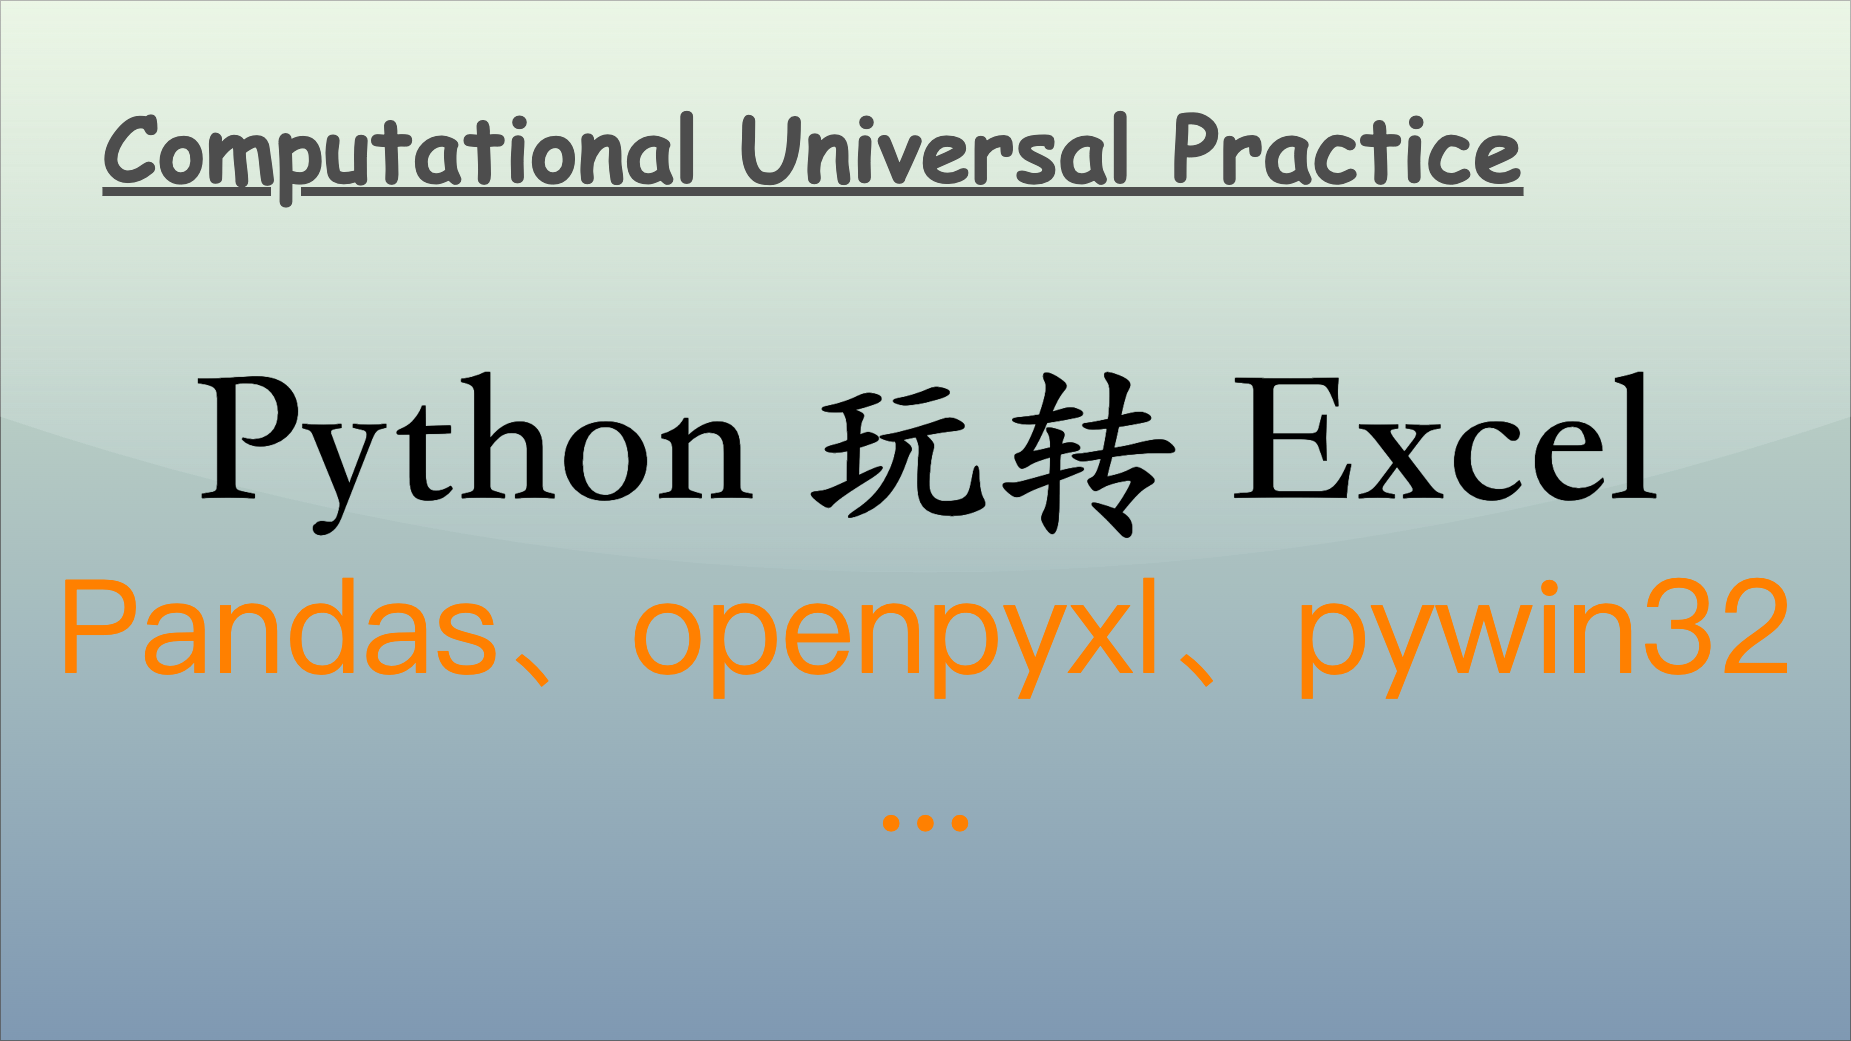
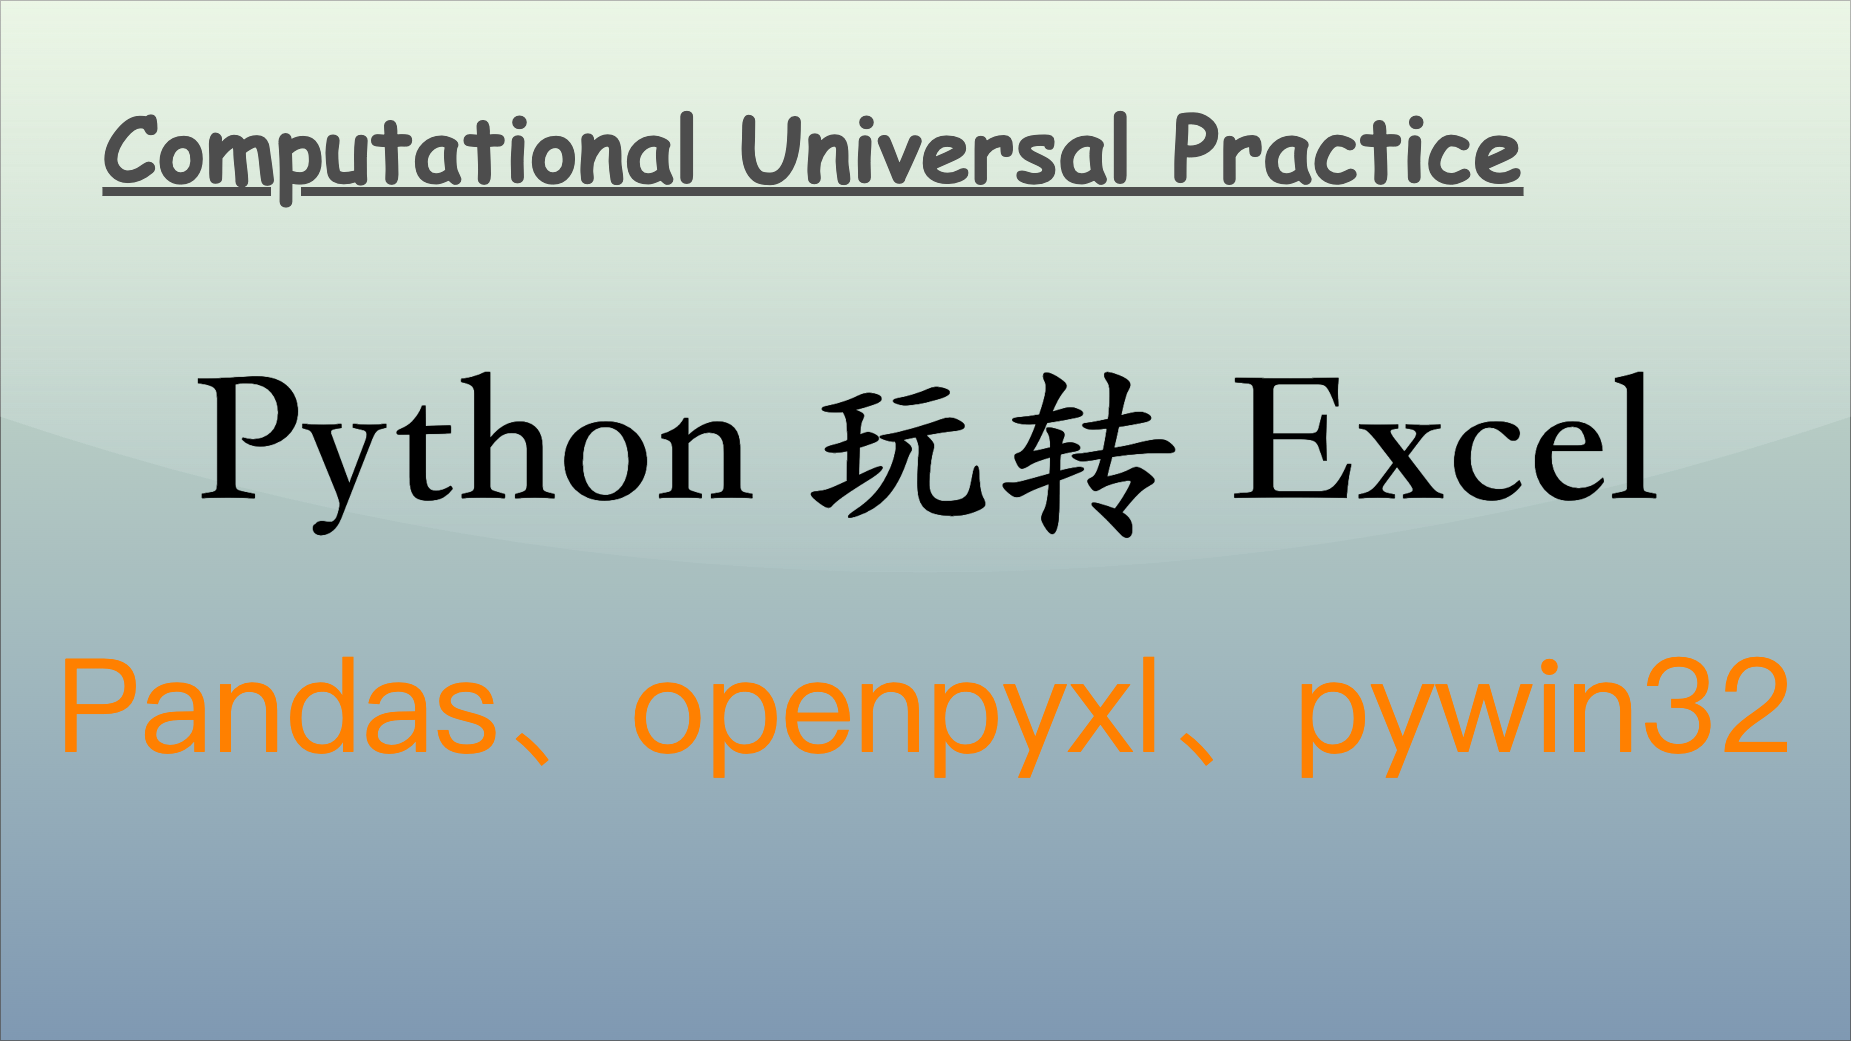
update images

Changed region(s): [[0.3387, 0.5533, 0.9854, 0.7378], [0.0308, 0.5533, 0.3079, 0.7378], [0.4619, 0.7685, 0.5235, 0.7992]]

diff --git a/articles/practice/working/27-Python 玩转 Excel.md b/articles/practice/working/27-Python 玩转 Excel.md
@@ -19,9 +19,9 @@ tags:
 
 ## 引言
 
-在数据处理和分析中，Excel 是一种常用的工具，而 Python 也是一种强大的编程语言。结合 Python 的数据处理库，可以方便地操作 Excel 文件，进行数据读取、处理、分析和报告生成等工作。本文将介绍如何使用 Python 操作 Excel 文件，包括读取、写入、数据处理、样式设置、数据验证、公式支持和图表创建等方面的内容。
+`Excel` 是在数据处理和分析中一种最常用的工具，而 Python 是一种强大的编程语言。结合 Python 的数据处理库，可以方便地操作 Excel 文件，进行数据读取、处理、分析和报告生成等工作。本文将介绍如何使用 Python 操作 Excel 文件，包括读取、写入、数据处理、样式设置、数据验证、公式支持和图表创建等方面的内容。
 
-![Python-Excel](assets/Python-Excel.png)
+![Cover](<assets/cover/Python 玩转 Excel.drawio.png>)
 
 在 Python 中，有多种库和方法可以操作 Excel 文件。下面我们捡一些常用的库及其基本操作进行介绍。
 

diff --git a/articles/practice/working/16-Python 优雅编程：会报恩的代码（一）.md b/articles/practice/working/16-Python 优雅编程：会报恩的代码（一）.md
@@ -21,7 +21,7 @@ tags:
 
 在 Python 编程中，有一些技巧和最佳实践可以帮助你编写更优雅、更高效的代码。本文将介绍 Python 中的 `yield` 和 `yield from` 用法，以及处理 `offset-naive` 和 `offset-aware` 的 `datetime` 对象时的最佳实践。此外，我们还将探讨如何处理 `requests` 异常，以提高代码的鲁棒性和用户体验。
 
-![Cover](<assets/Python 优雅编程：会报恩的代码.png>)
+![Cover](<assets/cover/Python 优雅编程：会报恩的代码.drawio.png>)
 
 ## yield 与 yield from
 

diff --git a/articles/practice/working/18-Python 优雅编程：会报恩的代码（二）.md b/articles/practice/working/18-Python 优雅编程：会报恩的代码（二）.md
@@ -22,7 +22,7 @@ tags:
 
 在 Python 编程中，有一些常用技巧和最佳实践可以帮助你编写更优雅、更高效的代码。本文将介绍的是 Python 中 `defaultdict` 的分组作用、`random` 在随机选取中的实践、使用 `networkx` 作图时，如何令图中的点一直保持相同的位置（不需要自行指定点的位置）、`logging.basicConfig` 的参数含义、`SQLAlchemy` 执行任意 SQL 等。
 
-![Cover](<assets/Python 优雅编程：会报恩的代码.png>)
+![Cover](<assets/cover/Python 优雅编程：会报恩的代码.drawio.png>)
 
 ## defaultdict
 

diff --git a/articles/practice/working/25-Python 优雅编程：会报恩的代码（三）.md b/articles/practice/working/25-Python 优雅编程：会报恩的代码（三）.md
@@ -20,7 +20,7 @@ tags:
 
 在 Python 编程中，有一些常用技巧和最佳实践可以帮助你编写更优雅、更高效的代码。本文将介绍的是 Python 中使用 `Scikit-Learn` 下载 `MNIST` 数据，并训练模型，序列化模型、`MLPClassifier` 模型的参数查看、MLPClassifier 的`激活函数`及其实现、从 `pandas.core.frame.DataFrame` 中获取数据等。
 
-![Cover](<assets/Python 优雅编程：会报恩的代码.png>)
+![Cover](<assets/cover/Python 优雅编程：会报恩的代码.drawio.png>)
 
 ## Scikit-Learn 下载 MNIST 数据、训练模型、序列化模型
 

diff --git a/articles/practice/working/26-Python 优雅编程：会报恩的代码（四）.md b/articles/practice/working/26-Python 优雅编程：会报恩的代码（四）.md
@@ -19,7 +19,7 @@ tags:
 
 在 Python 编程中，有一些常用技巧和最佳实践可以帮助你编写更优雅、更高效的代码。本文将介绍的是 Python 中 `urllib.parse.quote_plus` 的 URL 编码作用、判断指定路径的文件是否存在、使用 `imaplib` 与 `smtplib` 实现收发邮件、使用 `matplotlib` 绘制人工神经网络拓扑图、使用 `Keras` 构建卷积神经网络（CNN）等。
 
-![Cover](<assets/Python 优雅编程：会报恩的代码.png>)
+![Cover](<assets/cover/Python 优雅编程：会报恩的代码.drawio.png>)
 
 ## urllib.parse.quote_plus
 

diff --git a/articles/practice/working/28-Python 优雅编程：会报恩的代码（五）.md b/articles/practice/working/28-Python 优雅编程：会报恩的代码（五）.md
@@ -14,7 +14,7 @@ tags:
 
 在 Python 编程中，有一些常用技巧和最佳实践可以帮助你编写更优雅、更高效的代码。本文将介绍的是使用 Python 从文本中搜索指定单词的几个简单实现方式。
 
-![Cover](<assets/Python 优雅编程：会报恩的代码.png>)
+![Cover](<assets/cover/Python 优雅编程：会报恩的代码.drawio.png>)
 
 ## 从文本搜索指定单词，不区分单词的大小写
 

diff --git a/articles/practice/working/29-Markdown 语法.md b/articles/practice/working/29-Markdown 语法.md
@@ -16,7 +16,7 @@ tags:
 
 在 Python 编程中，有一些常用技巧和最佳实践可以帮助你编写更优雅、更高效的代码。本文将介绍的是 Python 中 `defaultdict` 的分组作用、`random` 在随机选取中的实践、使用 `networkx` 作图时，如何令图中的点一直保持相同的位置（不需要自行指定点的位置）、`logging.basicConfig` 的参数含义、`SQLAlchemy` 执行任意 SQL 等。
 
-![Cover](<assets/Python 优雅编程：会报恩的代码（二）.drawio.png>)
+![Cover](<assets/Python 优雅编程：会报恩的代码.drawio.png>)
 
 ## Markdown 语法
 

diff --git a/articles/practice/working/30-Markdown LaTeX 语法.md b/articles/practice/working/30-Markdown LaTeX 语法.md
@@ -16,7 +16,7 @@ tags:
 
 在 Python 编程中，有一些常用技巧和最佳实践可以帮助你编写更优雅、更高效的代码。本文将介绍的是 Python 中 `defaultdict` 的分组作用、`random` 在随机选取中的实践、使用 `networkx` 作图时，如何令图中的点一直保持相同的位置（不需要自行指定点的位置）、`logging.basicConfig` 的参数含义、`SQLAlchemy` 执行任意 SQL 等。
 
-![Cover](<assets/Python 优雅编程：会报恩的代码（二）.drawio.png>)
+![Cover](<assets/Python 优雅编程：会报恩的代码.drawio.png>)
 
 ## Markdown LaTeX 语法
 